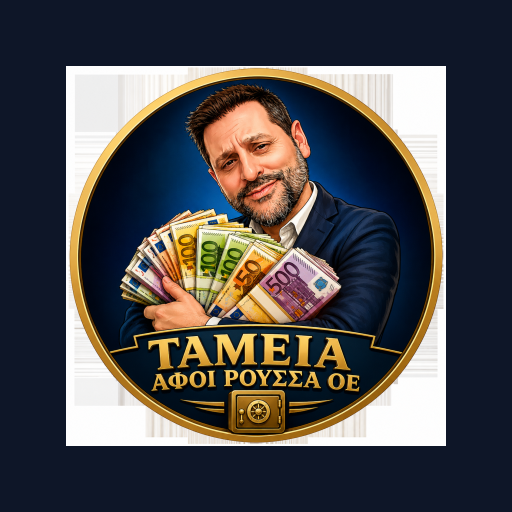
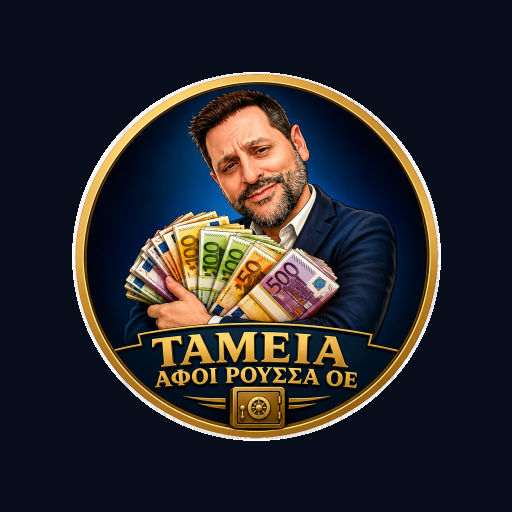
Add files via upload

diff --git a/index.html b/index.html
@@ -271,6 +271,11 @@ tbody tr.tot:nth-child(even) td{background:linear-gradient(180deg,rgba(212,175,9
 /* APP MAIN */
 .app-main{flex:1;margin-left:var(--sidebar-w);min-width:0;display:flex;flex-direction:column;}
 .topbar{min-height:var(--topbar-h);position:sticky;top:0;z-index:150;background:rgba(10,16,30,.82);backdrop-filter:blur(16px);-webkit-backdrop-filter:blur(16px);border-bottom:1px solid var(--glass-border);display:flex;align-items:center;gap:16px;padding:12px 24px;}
+/* PWA window-controls-overlay: η μπάρα-τίτλος του παραθύρου φεύγει· ο top bar γίνεται «λαβή» για μετακίνηση + αφήνει χώρο δεξιά για τα κουμπιά (─ ☐ ✕) */
+@media (display-mode: window-controls-overlay){
+  .topbar{ -webkit-app-region: drag; padding-right: 150px; }
+  .topbar .hamburger, .topbar select, .topbar .tb-icon, .topbar .tb-profile, .topbar button, .topbar a, .topbar input{ -webkit-app-region: no-drag; }
+}
 .tb-greet h1{font-size:19px;font-weight:700;letter-spacing:-.01em;line-height:1.1;}
 .tb-greet .date{font-size:11px;color:var(--muted);margin-top:2px;}
 .tb-actions{margin-left:auto;display:flex;align-items:center;gap:10px;flex-wrap:wrap;justify-content:flex-end;}